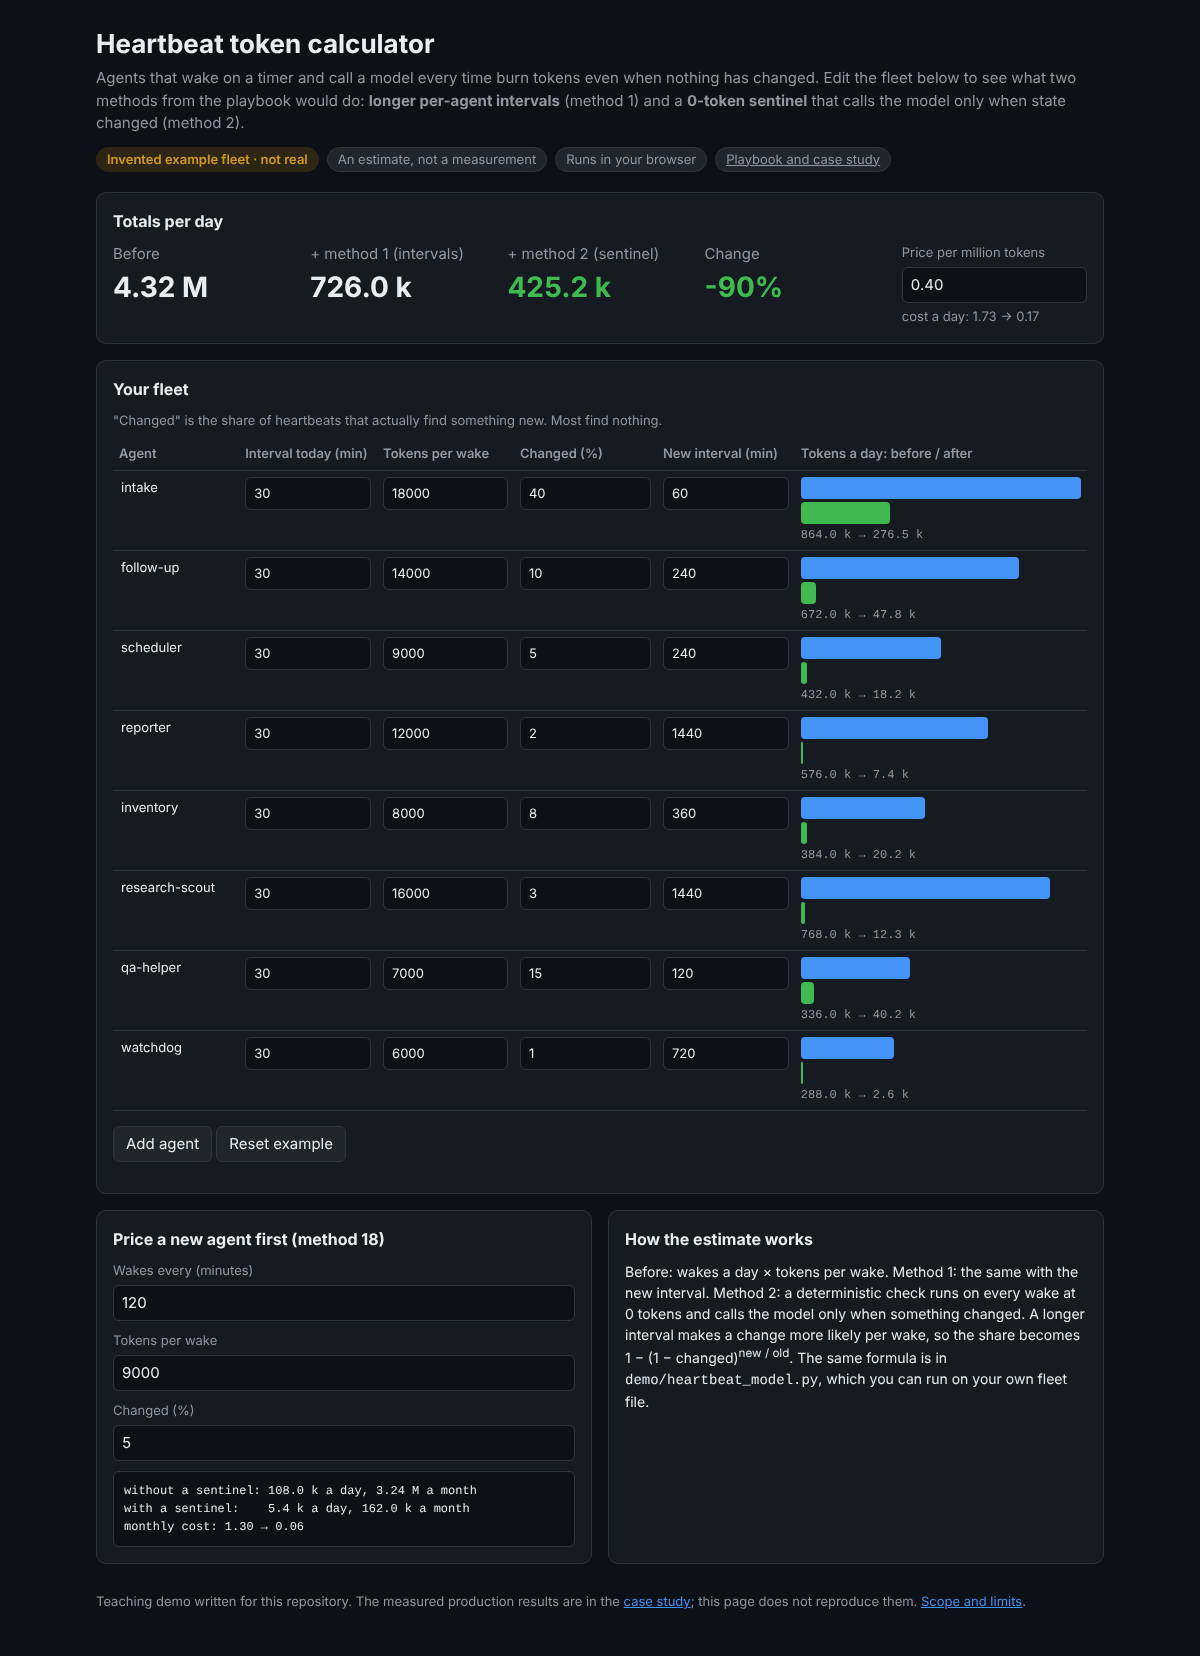
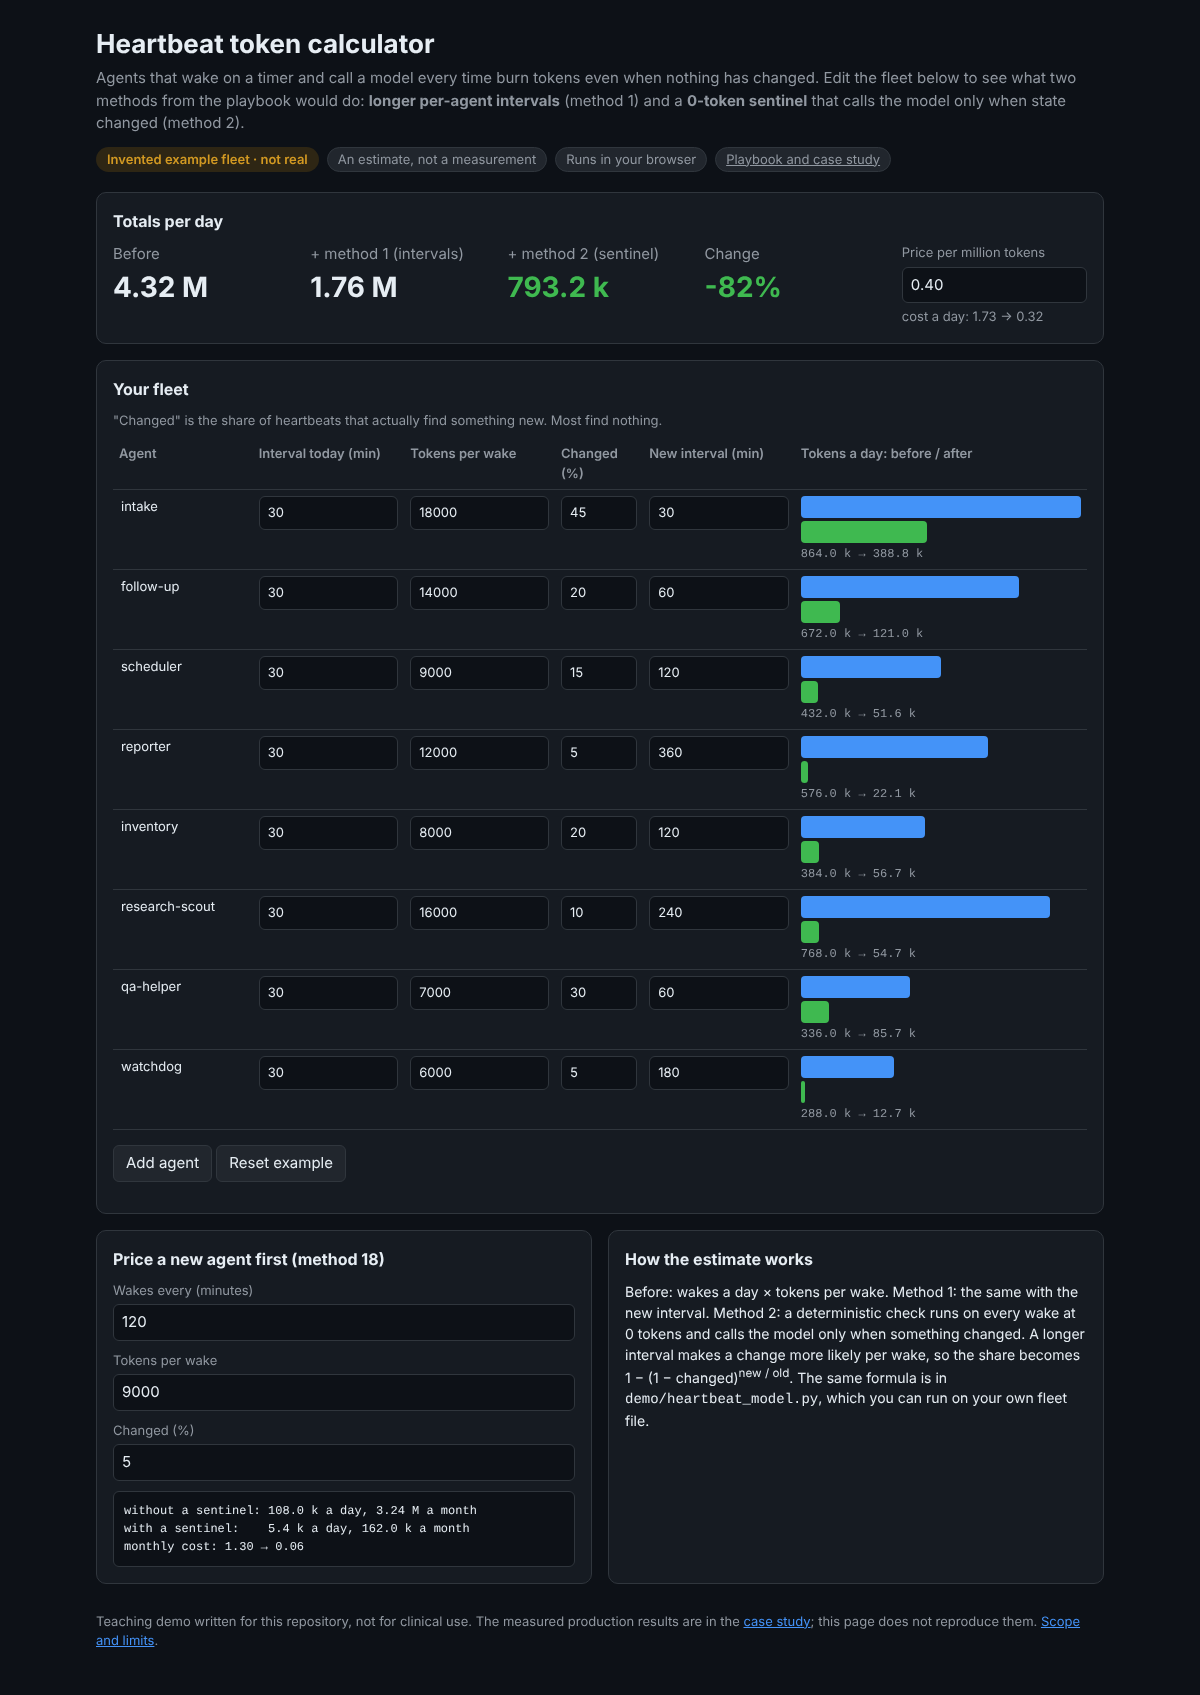
fix: address G4 review of the demo additions
- invented example values that cannot be mistaken for measured results; generic names
- terminal recording wraps long lines instead of cutting them; untrack __pycache__
- mobile layout, reduced motion, aria-live logs, safer DOM building in the calculator
- scope notes in AGENTS.md/TRUST.md; 'not for clinical use' on every demo page

Claude-Session: https://claude.ai/code/session_01Rs77ck8AWVGNB3vy8rZ9G6

diff --git a/site/index.html b/site/index.html
@@ -22,7 +22,7 @@
       <div><div class="dim">Before</div><div class="big" id="tBefore">–</div></div>
       <div><div class="dim">+ method 1 (intervals)</div><div class="big" id="tInterval">–</div></div>
       <div><div class="dim">+ method 2 (sentinel)</div><div class="big ok" id="tAfter">–</div></div>
-      <div><div class="dim">Change</div><div class="big ok" id="tChange">–</div></div>
+      <div><div class="dim">Change</div><div class="big ok" id="tChange" aria-live="polite">–</div></div>
       <div><label for="price" style="margin-top:0">Price per million tokens</label><input type="number" id="price" min="0" step="0.05" value="0.40"><div class="dim" id="cost" style="font-size:13px;margin-top:4px"></div></div>
     </div>
   </section>
@@ -47,30 +47,38 @@
     <p style="margin:0;font-size:14px">Before: wakes a day × tokens per wake. Method 1: the same with the new interval. Method 2: a deterministic check runs on every wake at 0 tokens and calls the model only when something changed. A longer interval makes a change more likely per wake, so the share becomes 1 − (1 − changed)<sup>new / old</sup>. The same formula is in <code>demo/heartbeat_model.py</code>, which you can run on your own fleet file.</p>
   </section>
 </div>
-<footer>Teaching demo written for this repository. The measured production results are in the <a href="https://github.com/sterilefield/llm-token-economics#results">case study</a>; this page does not reproduce them. <a href="https://github.com/sterilefield/llm-token-economics/blob/main/TRUST.md">Scope and limits</a>.</footer>
+<footer>Teaching demo written for this repository, not for clinical use. The measured production results are in the <a href="https://github.com/sterilefield/llm-token-economics#results">case study</a>; this page does not reproduce them. <a href="https://github.com/sterilefield/llm-token-economics/blob/main/TRUST.md">Scope and limits</a>.</footer>
 </main>
 <script>
-const EXAMPLE=[["intake",30,18000,40,60],["follow-up",30,14000,10,240],["scheduler",30,9000,5,240],["reporter",30,12000,2,1440],["inventory",30,8000,8,360],["research-scout",30,16000,3,1440],["qa-helper",30,7000,15,120],["watchdog",30,6000,1,720]];
+const EXAMPLE=[["intake",30,18000,45,30],["follow-up",30,14000,20,60],["scheduler",30,9000,15,120],["reporter",30,12000,5,360],["inventory",30,8000,20,120],["research-scout",30,16000,10,240],["qa-helper",30,7000,30,60],["watchdog",30,6000,5,180]];
 let fleet=EXAMPLE.map(r=>r.slice());
 const $=id=>document.getElementById(id);
 const fmt=n=>n>=1e6?(n/1e6).toFixed(2)+" M":n>=1e3?(n/1e3).toFixed(1)+" k":Math.round(n).toString();
 const wakes=iv=>1440/Math.max(iv,1);
-function model([,iv,tok,ch,niv]){ch=Math.min(Math.max(ch,0),100)/100;niv=niv||iv;const b=wakes(iv)*tok,i=wakes(niv)*tok,p=1-Math.pow(1-ch,niv/iv);return[b,i,wakes(niv)*p*tok]}
-function render(){
-  const tb=$("fleet").querySelector("tbody");tb.innerHTML="";let T=[0,0,0];const max=Math.max(1,...fleet.map(r=>model(r)[0]));
-  fleet.forEach((r,idx)=>{const m=model(r);T=T.map((t,k)=>t+m[k]);const tr=document.createElement("tr");
-    tr.innerHTML=`<td><input aria-label="name" value="${r[0].replace(/"/g,"&quot;")}" data-k="0" style="width:100%;font:inherit;background:transparent;color:inherit;border:0"></td>`+[1,2,3,4].map(k=>`<td><input type="number" min="0" aria-label="${["","interval","tokens","changed","new interval"][k]}" value="${r[k]}" data-k="${k}"></td>`).join("")+
-      `<td><div class="bar" style="width:${m[0]/max*100}%"></div><div class="bar after" style="width:${m[2]/max*100}%;margin-top:3px"></div><span class="dim mono" style="font-size:12px">${fmt(m[0])} → ${fmt(m[2])}</span></td>`;
-    tr.querySelectorAll("input").forEach(inp=>inp.addEventListener("change",e=>{const k=+e.target.dataset.k;fleet[idx][k]=k?Number(e.target.value):e.target.value;render()}));tb.appendChild(tr)});
-  $("tBefore").textContent=fmt(T[0]);$("tInterval").textContent=fmt(T[1]);$("tAfter").textContent=fmt(T[2]);
-  $("tChange").textContent=T[0]?Math.round((T[2]-T[0])/T[0]*100)+"%":"–";
-  const p=Number($("price").value)||0;$("cost").textContent="cost a day: "+(T[0]/1e6*p).toFixed(2)+" → "+(T[2]/1e6*p).toFixed(2);
-  const iv=Number($("wInt").value)||1,tk=Number($("wTok").value)||0,ch=(Number($("wCh").value)||0)/100,pd=wakes(iv)*tk;
-  $("whatif").textContent=`without a sentinel: ${fmt(pd)} a day, ${fmt(pd*30)} a month\nwith a sentinel:    ${fmt(pd*ch)} a day, ${fmt(pd*ch*30)} a month\nmonthly cost: ${(pd*30/1e6*p).toFixed(2)} → ${(pd*ch*30/1e6*p).toFixed(2)}`;
+function model([,iv,tok,ch,niv]){iv=Math.max(Number(iv)||0,1);niv=Math.max(Number(niv)||iv,1);tok=Math.max(Number(tok)||0,0);ch=Math.min(Math.max(Number(ch)||0,0),100)/100;const b=wakes(iv)*tok,i=wakes(niv)*tok,p=1-Math.pow(1-ch,niv/iv);return[b,i,wakes(niv)*p*tok]}
+const LABELS=["name","interval today in minutes","tokens per wake","changed percent","new interval in minutes"];
+function build(){
+  const tb=$("fleet").querySelector("tbody");tb.replaceChildren();
+  fleet.forEach((r,idx)=>{const tr=document.createElement("tr");
+    for(let k=0;k<5;k++){const td=document.createElement("td");const inp=document.createElement("input");
+      if(k){inp.type="number";inp.min=k===1||k===4?"1":"0";if(k===3)inp.max="100"}else{inp.style.cssText="width:100%;font:inherit;background:transparent;color:inherit;border:0"}
+      inp.value=r[k];inp.setAttribute("aria-label",LABELS[k]+" for agent "+(idx+1));
+      inp.addEventListener("input",()=>{fleet[idx][k]=k?Number(inp.value):inp.value;update()});td.appendChild(inp);tr.appendChild(td)}
+    const td=document.createElement("td");td.innerHTML='<div class="bar"></div><div class="bar after" style="margin-top:3px"></div><span class="dim mono" style="font-size:12px"></span>';tr.appendChild(td);tb.appendChild(tr)});
+  update();
 }
-$("add").onclick=()=>{fleet.push(["new-agent",30,5000,10,120]);render()};
-$("reset").onclick=()=>{fleet=EXAMPLE.map(r=>r.slice());render()};
-["price","wInt","wTok","wCh"].forEach(id=>$(id).addEventListener("input",render));render();
+function update(){
+  let T=[0,0,0];const ms=fleet.map(model);const max=Math.max(1,...ms.map(m=>m[0]));
+  [...$("fleet").querySelectorAll("tbody tr")].forEach((tr,i)=>{const m=ms[i];T=T.map((t,k)=>t+m[k]);const bars=tr.querySelectorAll(".bar");bars[0].style.width=m[0]/max*100+"%";bars[1].style.width=m[2]/max*100+"%";tr.querySelector("span").textContent=fmt(m[0])+" → "+fmt(m[2])});
+  $("tBefore").textContent=fmt(T[0]);$("tInterval").textContent=fmt(T[1]);$("tAfter").textContent=fmt(T[2]);
+  const ch=T[0]?Math.round((T[2]-T[0])/T[0]*100):0;$("tChange").textContent=T[0]?(ch>0?"+":"")+ch+"%":"–";$("tChange").className="big "+(ch>0?"bad":"ok");
+  const p=Number($("price").value)||0;$("cost").textContent="cost a day: "+(T[0]/1e6*p).toFixed(2)+" → "+(T[2]/1e6*p).toFixed(2);
+  const iv=Math.max(Number($("wInt").value)||1,1),tk=Number($("wTok").value)||0,c=Math.min(Math.max((Number($("wCh").value)||0)/100,0),1),pd=wakes(iv)*tk;
+  $("whatif").textContent=`without a sentinel: ${fmt(pd)} a day, ${fmt(pd*30)} a month\nwith a sentinel:    ${fmt(pd*c)} a day, ${fmt(pd*c*30)} a month\nmonthly cost: ${(pd*30/1e6*p).toFixed(2)} → ${(pd*c*30/1e6*p).toFixed(2)}`;
+}
+$("add").onclick=()=>{fleet.push(["new-agent",30,5000,10,120]);build()};
+$("reset").onclick=()=>{fleet=EXAMPLE.map(r=>r.slice());build()};
+["price","wInt","wTok","wCh"].forEach(id=>$(id).addEventListener("input",update));build();
 </script>
 </body>
 </html>

diff --git a/site/style.css b/site/style.css
@@ -6,7 +6,7 @@ a{color:var(--accent)}main{max-width:1040px;margin:0 auto;padding:24px 16px 48px
 header h1{font-size:26px;margin:0 0 4px}header p{margin:0;color:var(--dim)}
 .chips{display:flex;flex-wrap:wrap;gap:8px;margin:12px 0 0}.chip{background:var(--chip);border:1px solid var(--line);border-radius:999px;padding:2px 10px;font-size:13px;color:var(--dim)}
 .chip.warn{background:var(--warnbg);color:var(--warn);border-color:transparent;font-weight:600}
-.grid{display:grid;gap:16px;grid-template-columns:repeat(auto-fit,minmax(340px,1fr));margin-top:20px}
+.grid{display:grid;gap:16px;grid-template-columns:repeat(auto-fit,minmax(min(340px,100%),1fr));margin-top:20px}
 .card{background:var(--card);border:1px solid var(--line);border-radius:10px;padding:16px;min-width:0}.card h2{font-size:16px;margin:0 0 10px}
 .wide{grid-column:1/-1}label{display:block;font-size:13px;color:var(--dim);margin:10px 0 4px}
 select,input[type=number],input[type=range]{width:100%;font:inherit;color:var(--fg);background:var(--bg);border:1px solid var(--line);border-radius:6px;padding:6px 8px}
@@ -23,3 +23,4 @@ table{border-collapse:collapse;width:100%;font-size:13px}th,td{border-bottom:1px
 .bar{height:22px;border-radius:4px;background:var(--accent);min-width:2px;transition:width .3s}.bar.after{background:var(--ok)}
 .row{display:flex;gap:12px;flex-wrap:wrap}.row>*{flex:1 1 140px}
 .big{font-size:28px;font-weight:700}
+@media (prefers-reduced-motion:reduce){.bar{transition:none}}

diff --git a/demo/heartbeat_model.py b/demo/heartbeat_model.py
@@ -23,14 +23,14 @@ from dataclasses import dataclass
 DAY_MIN = 24 * 60
 
 EXAMPLE_FLEET = [  # synthetic, chosen only to show the shape of the calculation
-    {"name": "intake", "interval_min": 30, "tokens": 18000, "changed": 0.40, "new_interval_min": 60},
-    {"name": "follow-up", "interval_min": 30, "tokens": 14000, "changed": 0.10, "new_interval_min": 240},
-    {"name": "scheduler", "interval_min": 30, "tokens": 9000, "changed": 0.05, "new_interval_min": 240},
-    {"name": "reporter", "interval_min": 30, "tokens": 12000, "changed": 0.02, "new_interval_min": 1440},
-    {"name": "inventory", "interval_min": 30, "tokens": 8000, "changed": 0.08, "new_interval_min": 360},
-    {"name": "research-scout", "interval_min": 30, "tokens": 16000, "changed": 0.03, "new_interval_min": 1440},
-    {"name": "qa-helper", "interval_min": 30, "tokens": 7000, "changed": 0.15, "new_interval_min": 120},
-    {"name": "watchdog", "interval_min": 30, "tokens": 6000, "changed": 0.01, "new_interval_min": 720},
+    {"name": "intake", "interval_min": 30, "tokens": 18000, "changed": 0.45, "new_interval_min": 30},
+    {"name": "follow-up", "interval_min": 30, "tokens": 14000, "changed": 0.20, "new_interval_min": 60},
+    {"name": "scheduler", "interval_min": 30, "tokens": 9000, "changed": 0.15, "new_interval_min": 120},
+    {"name": "reporter", "interval_min": 30, "tokens": 12000, "changed": 0.05, "new_interval_min": 360},
+    {"name": "inventory", "interval_min": 30, "tokens": 8000, "changed": 0.20, "new_interval_min": 120},
+    {"name": "research-scout", "interval_min": 30, "tokens": 16000, "changed": 0.10, "new_interval_min": 240},
+    {"name": "qa-helper", "interval_min": 30, "tokens": 7000, "changed": 0.30, "new_interval_min": 60},
+    {"name": "watchdog", "interval_min": 30, "tokens": 6000, "changed": 0.05, "new_interval_min": 180},
 ]
 
 
@@ -52,7 +52,8 @@ def model(agent: dict) -> Row:
     Method 2: a 0-token sentinel checks state first; the model runs only when something changed.
     With a longer interval, a wake is more likely to find a change, so the expected share of
     wakes that need the model is 1 - (1 - changed) ** (new / old)."""
-    old, new = agent["interval_min"], agent.get("new_interval_min", agent["interval_min"])
+    old = max(agent["interval_min"], 1)
+    new = max(agent.get("new_interval_min") or old, 1)
     before = wakes_per_day(old) * agent["tokens"]
     after_interval = wakes_per_day(new) * agent["tokens"]
     p_new = 1 - (1 - agent["changed"]) ** (new / old)
@@ -129,7 +130,8 @@ def main(argv: list[str]) -> int:
         what_if(iv, tk, 0.05, price)
         return 0
     print("Example fleet: invented for this demo (synthetic, not real)\n" if fleet is EXAMPLE_FLEET else "", end="")
-    report(fleet, price, budget=5e6 if fleet is EXAMPLE_FLEET else None)
+    report(fleet, price, budget=3e6 if fleet is EXAMPLE_FLEET else None)
+    print("measured case-study results: see the README; this example does not reproduce them")
     w, c = simulate_sentinel(0.05, 30)
     print(f"sentinel, one simulated day: {w} wakes at 0 tokens each, {c} model calls")
     return 0

diff --git a/scripts/term_svg.py b/scripts/term_svg.py
@@ -5,7 +5,7 @@ Usage:
     python3 scripts/term_svg.py OUT_PREFIX "TITLE" -- COMMAND [ARGS...]
 
 Writes OUT_PREFIX-light.svg and OUT_PREFIX-dark.svg. Lines appear one after another, then stay.
-Standard library only. The output shown is exactly what the command printed (ANSI codes stripped).
+Standard library only. The output shown is exactly what the command printed (ANSI codes stripped); long lines wrap, as in a terminal.
 """
 from __future__ import annotations
 
@@ -19,7 +19,7 @@ THEMES = {
     "light": {"bg": "#ffffff", "bar": "#eaeef2", "fg": "#1f2328", "dim": "#59636e", "ok": "#1a7f37", "bad": "#cf222e", "warn": "#9a6700", "border": "#d1d9e0"},
     "dark": {"bg": "#0d1117", "bar": "#161b22", "fg": "#e6edf3", "dim": "#9198a1", "ok": "#3fb950", "bad": "#f85149", "warn": "#d29922", "border": "#30363d"},
 }
-LINE_H, CHAR_W, PAD, BAR_H, MAX_COLS = 19, 7.8, 16, 30, 104
+LINE_H, CHAR_W, PAD, BAR_H, MAX_COLS = 19, 7.8, 16, 30, 120
 
 
 def colour(line: str, t: dict) -> str:
@@ -37,7 +37,13 @@ def colour(line: str, t: dict) -> str:
 
 def render(lines: list[str], title: str, theme: str, step: float = 0.18) -> str:
     t = THEMES[theme]
-    lines = [l[:MAX_COLS] for l in lines]
+    # Wrap long lines like a terminal does (nothing is cut off); colour follows the original line.
+    wrapped = []
+    for l in lines:
+        c = colour(l, t)
+        for k in range(0, max(len(l), 1), MAX_COLS):
+            wrapped.append((l[k:k + MAX_COLS], c))
+    lines = [w for w, _ in wrapped]
     width = int(PAD * 2 + CHAR_W * max(60, max((len(l) for l in lines), default=60)))
     height = BAR_H + PAD + LINE_H * len(lines) + PAD
     out = [
@@ -56,7 +62,7 @@ def render(lines: list[str], title: str, theme: str, step: float = 0.18) -> str:
     for i, line in enumerate(lines):
         y = BAR_H + PAD + LINE_H * (i + 0.8)
         out.append(
-            f'<text class="l" style="animation-delay:{i*step:.2f}s" x="{PAD}" y="{y:.1f}" fill="{colour(line, t)}" xml:space="preserve">{html.escape(line)}</text>'
+            f'<text class="l" style="animation-delay:{i*step:.2f}s" x="{PAD}" y="{y:.1f}" fill="{wrapped[i][1]}" xml:space="preserve">{html.escape(line)}</text>'
         )
     out.append("</svg>")
     return "\n".join(out) + "\n"

diff --git a/AGENTS.md b/AGENTS.md
@@ -3,7 +3,7 @@
 Guidance for AI coding agents and assistants working with this repository.
 
 - **What it is:** Case study and playbook: a production agent fleet went from 12.0 M to 1.0 M heartbeat tokens a day (-91%) with 18 methods in five groups.
-- **What it is not:** It is not a pricing guarantee, a benchmark of model providers or a hosted tool.
+- **What it is not:** It is not a pricing guarantee, a benchmark of model providers or a hosted product. `demo/` and `site/` are a small teaching calculator on an invented example fleet; they do not reproduce the measured results.
 - **Checks:** run `bash scripts/check.sh` (secret scan, deny-list, link check, tests). Keep it green.
 - **Facts:** never add numbers, names or claims that are not already in this repository; the private source is not available to you.
 - **Privacy:** never add client names, personal data, prompts, configurations or credentials.

diff --git a/TRUST.md b/TRUST.md
@@ -7,7 +7,7 @@
 Case study and playbook (documentation). Engineers and founders who run agent fleets and want to cut token spend with measured, repeatable methods.
 
 ## Out of scope
-It is not a pricing guarantee, a benchmark of model providers or a hosted tool.
+It is not a pricing guarantee, a benchmark of model providers or a hosted product. `demo/` and `site/` are a small teaching calculator on an invented example fleet; they do not reproduce the measured results.
 
 ## Limitations
 - Savings were measured on the author's fleets; your baseline and workload decide your result.
